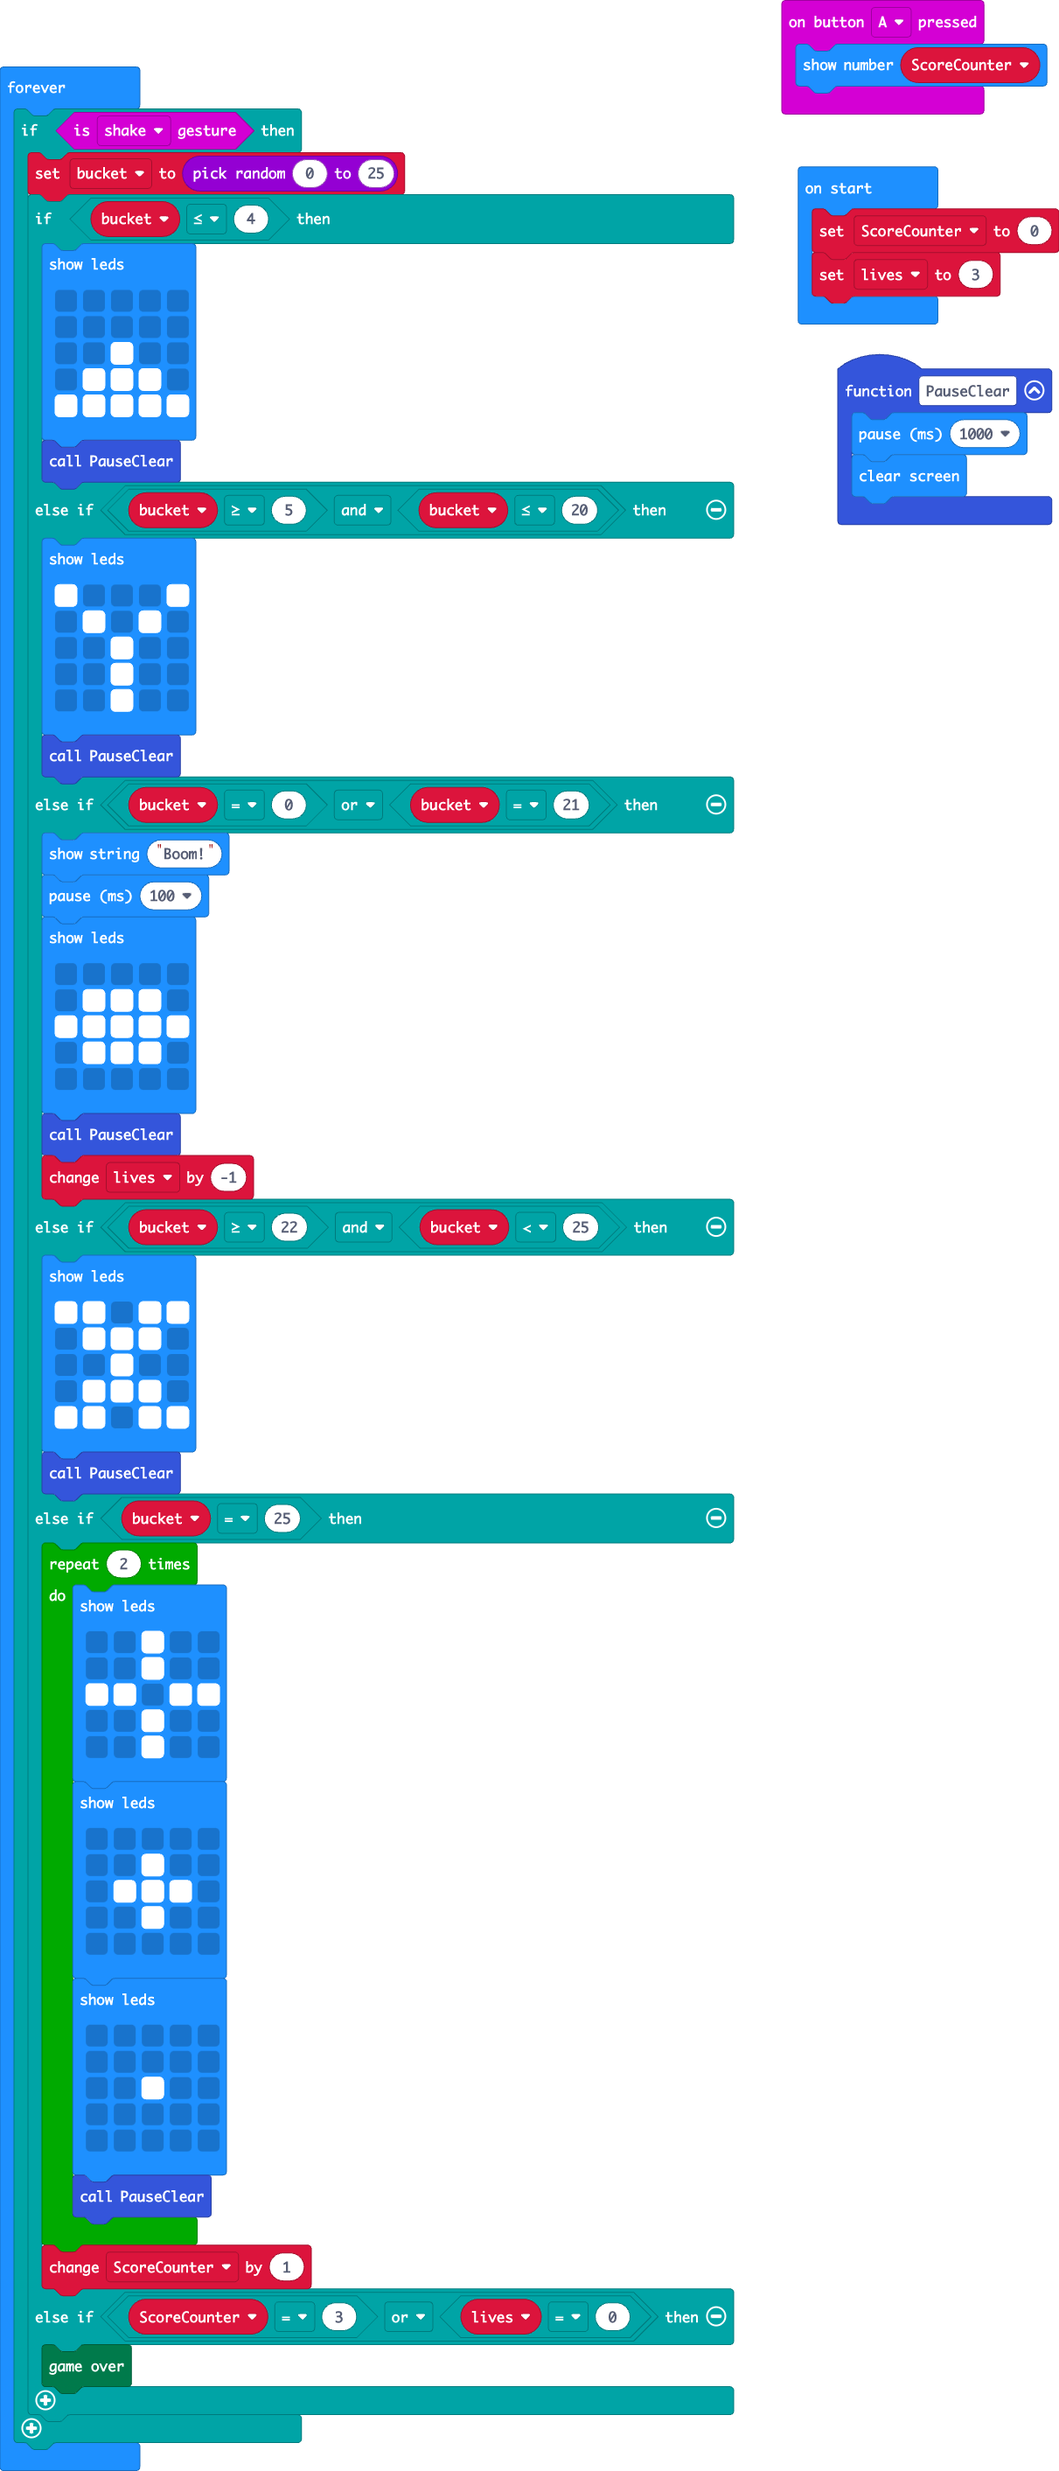
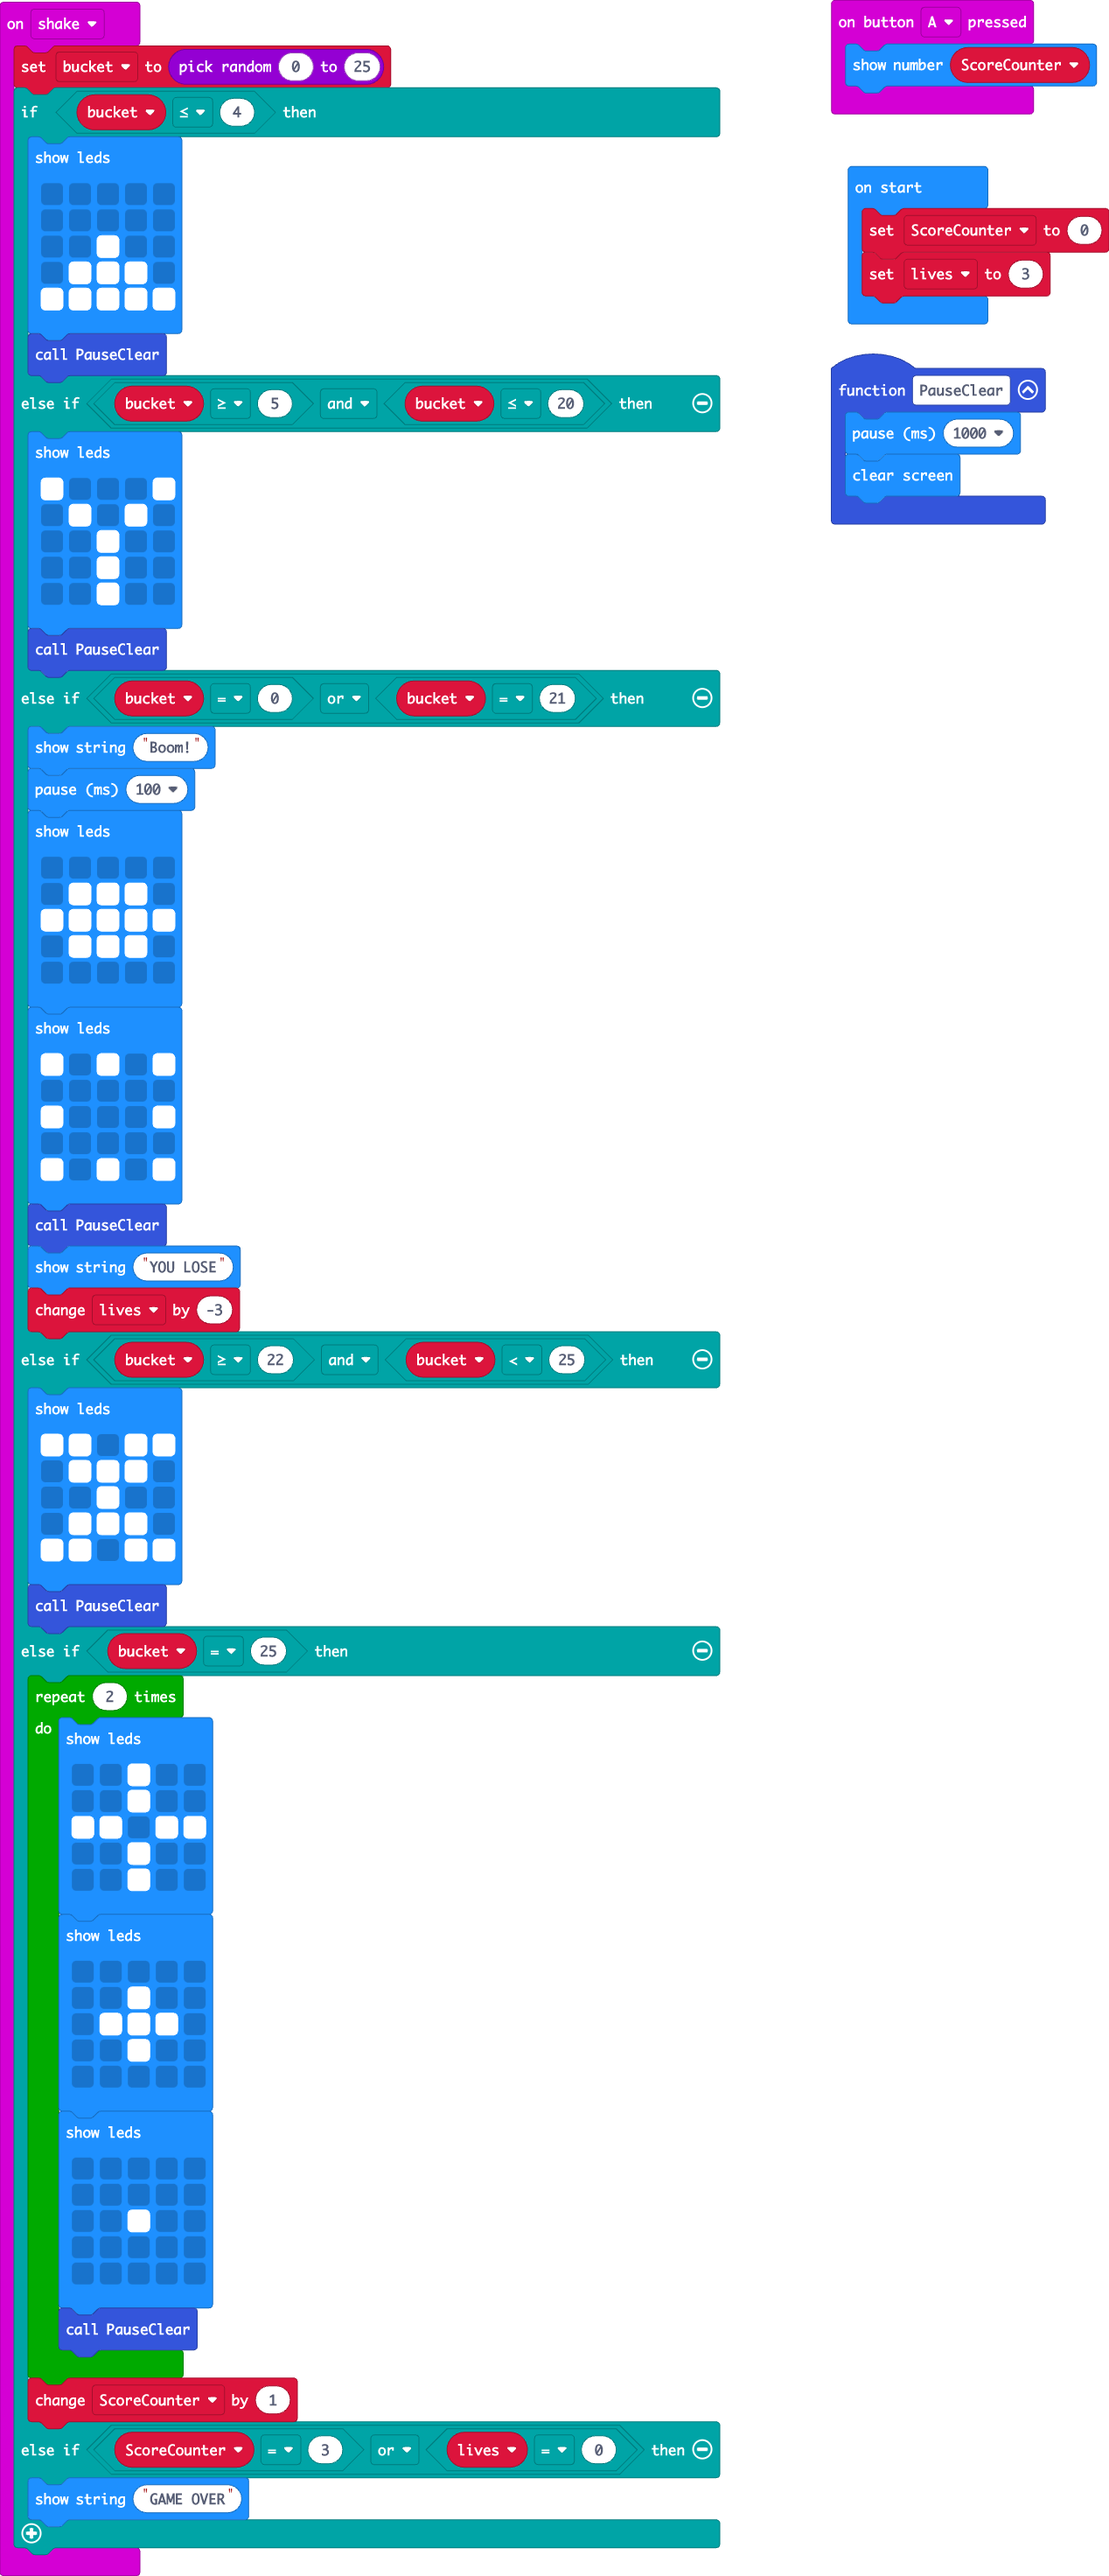
Update main.blocks, main.ts

diff --git a/main.ts b/main.ts
@@ -5,80 +5,87 @@ function PauseClear () {
 input.onButtonPressed(Button.A, function () {
     basic.showNumber(ScoreCounter)
 })
-let bucket = 0
-let ScoreCounter = 0
-ScoreCounter = 0
-let lives = 3
-basic.forever(function () {
-    if (input.isGesture(Gesture.Shake)) {
-        bucket = randint(0, 25)
-        if (bucket <= 4) {
+input.onGesture(Gesture.Shake, function () {
+    bucket = randint(0, 25)
+    if (bucket <= 4) {
+        basic.showLeds(`
+            . . . . .
+            . . . . .
+            . . # . .
+            . # # # .
+            # # # # #
+            `)
+        PauseClear()
+    } else if (bucket >= 5 && bucket <= 20) {
+        basic.showLeds(`
+            # . . . #
+            . # . # .
+            . . # . .
+            . . # . .
+            . . # . .
+            `)
+        PauseClear()
+    } else if (bucket == 0 || bucket == 21) {
+        basic.showString("Boom!")
+        basic.pause(100)
+        basic.showLeds(`
+            . . . . .
+            . # # # .
+            # # # # #
+            . # # # .
+            . . . . .
+            `)
+        basic.showLeds(`
+            # . # . #
+            . . . . .
+            # . . . #
+            . . . . .
+            # . # . #
+            `)
+        PauseClear()
+        basic.showString("YOU LOSE")
+        lives += -3
+    } else if (bucket >= 22 && bucket < 25) {
+        basic.showLeds(`
+            # # . # #
+            . # # # .
+            . . # . .
+            . # # # .
+            # # . # #
+            `)
+        PauseClear()
+    } else if (bucket == 25) {
+        for (let index = 0; index < 2; index++) {
             basic.showLeds(`
-                . . . . .
-                . . . . .
-                . . # . .
-                . # # # .
-                # # # # #
-                `)
-            PauseClear()
-        } else if (bucket >= 5 && bucket <= 20) {
-            basic.showLeds(`
-                # . . . #
-                . # . # .
                 . . # . .
                 . . # . .
-                . . # . .
-                `)
-            PauseClear()
-        } else if (bucket == 0 || bucket == 21) {
-            basic.showString("Boom!")
-            basic.pause(100)
-            basic.showLeds(`
-                . . . . .
-                . # # # .
-                # # # # #
-                . # # # .
-                . . . . .
-                `)
-            PauseClear()
-            lives += -1
-        } else if (bucket >= 22 && bucket < 25) {
-            basic.showLeds(`
                 # # . # #
-                . # # # .
+                . . # . .
+                . . # . .
+                `)
+            basic.showLeds(`
+                . . . . .
                 . . # . .
                 . # # # .
-                # # . # #
+                . . # . .
+                . . . . .
+                `)
+            basic.showLeds(`
+                . . . . .
+                . . . . .
+                . . # . .
+                . . . . .
+                . . . . .
                 `)
             PauseClear()
-        } else if (bucket == 25) {
-            for (let index = 0; index < 2; index++) {
-                basic.showLeds(`
-                    . . # . .
-                    . . # . .
-                    # # . # #
-                    . . # . .
-                    . . # . .
-                    `)
-                basic.showLeds(`
-                    . . . . .
-                    . . # . .
-                    . # # # .
-                    . . # . .
-                    . . . . .
-                    `)
-                basic.showLeds(`
-                    . . . . .
-                    . . . . .
-                    . . # . .
-                    . . . . .
-                    . . . . .
-                    `)
-                PauseClear()
-            }
-            ScoreCounter += 1
-        } else if (ScoreCounter == 3 || lives == 0) {
-            game.gameOver()
         }
+        ScoreCounter += 1
+    } else if (ScoreCounter == 3 || lives == 0) {
+        basic.showString("GAME OVER")
     }
 })
+let bucket = 0
+let lives = 0
+let ScoreCounter = 0
+ScoreCounter = 0
+lives = 3
